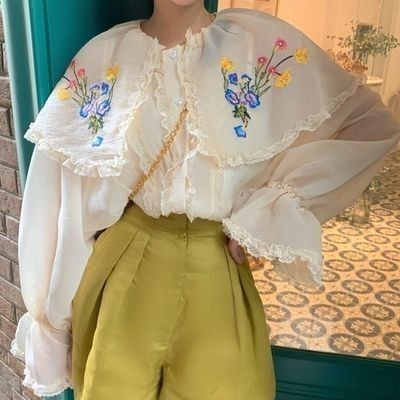
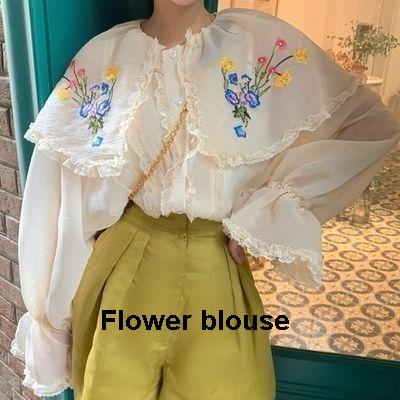
downloading images added

Changed region(s): [[0.24, 0.75, 0.72, 0.84]]

diff --git a/src/main/kotlin/Main.kt b/src/main/kotlin/Main.kt
@@ -5,6 +5,10 @@ import java.net.URI
 import java.net.URL
 import java.net.http.*
 
+import java.awt.Color
+import java.awt.Font
+import javax.imageio.ImageIO
+
 const val inst_user_id = "17841460507708499"
[1 lines of base64/hex data omitted]
 const val shopify_access_token = "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"
@@ -31,6 +35,30 @@ fun instagram_request(uri: URI): HttpResponse<String>{
     return inst_response
 }
 
+fun edit_image_with_text(imagePath: String, text: String): Boolean {
+    try {
+        val imageFile = File(imagePath)
+        val image = ImageIO.read(imageFile)
+
+        val width = image.width
+        val height = image.height
+        val graphics = image.createGraphics()
+
+        val font = Font("Arial", Font.BOLD, 28)
+        val color = Color.BLACK
+
+        graphics.font = font
+        graphics.color = color
+        graphics.drawString(text, 100, height - 70)
+//        println("$width $height")
+        ImageIO.write(image, "jpg", imageFile)
+        return true
+    } catch (e: Exception) {
+        println("Error: ${e.message}")
+        return false
+    }
+}
+
 fun main() {
 
     val shopify_uri = URI("https://eat-shop-sleep-and-repeat.myshopify.com/admin/products.json")
@@ -52,8 +80,9 @@ fun main() {
 
     for(item in json_shopify_data["products"]!!.jsonArray) {
         val item_image = download_image(item.jsonObject["image"]!!.jsonObject["src"].toString(), "$root${sep}imagetest.jpg")
-        val item_title = item.jsonObject["title"]
-        
+        val item_title = item.jsonObject["title"].toString()
+
+        /*
         val caption = ""
         val image_url = "https://i.pinimg.com/originals/83/aa/d3/83aad3e772005d9e7e819229655e4c44.jpg"
 
@@ -62,5 +91,9 @@ fun main() {
         val media_id =  json_inst_data["id"].toString()
         val inst_response_to_post_media = instagram_request(URI("https://graph.facebook.com/v17.0/$inst_user_id/media_publish?creation_id=${media_id.substring(1, media_id.length - 1)}&access_token=$inst_access_token"))
         println(inst_response_to_post_media.body())
+         */
+
+        edit_image_with_text(item_image.absolutePath, item_title.substring(1,item_title.length-1))
+
     }
 }
